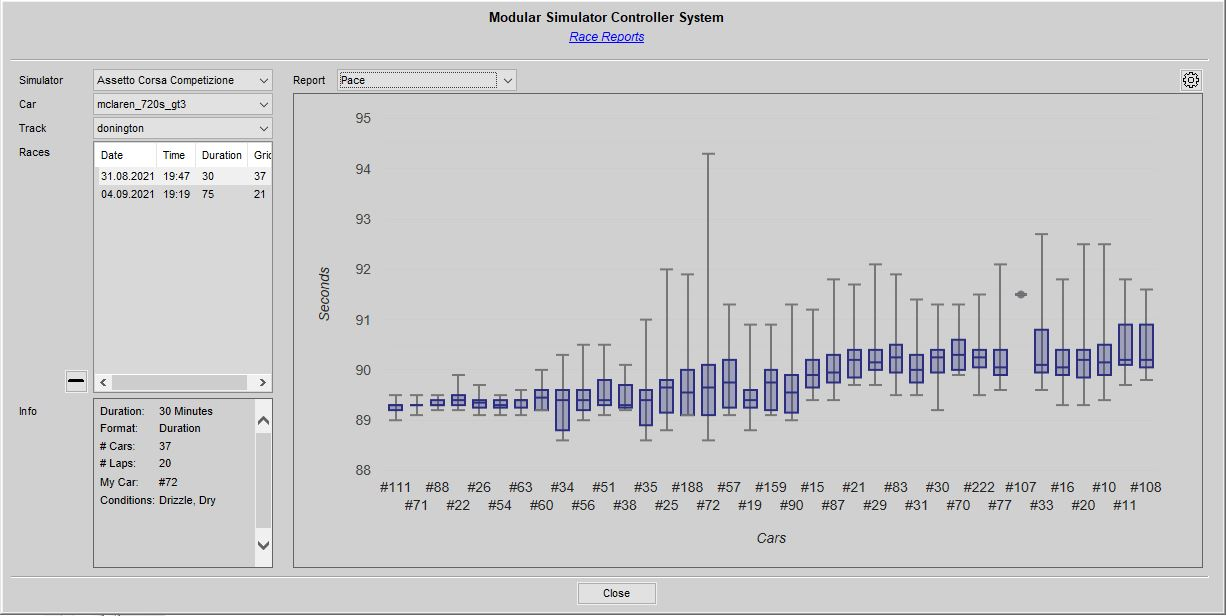
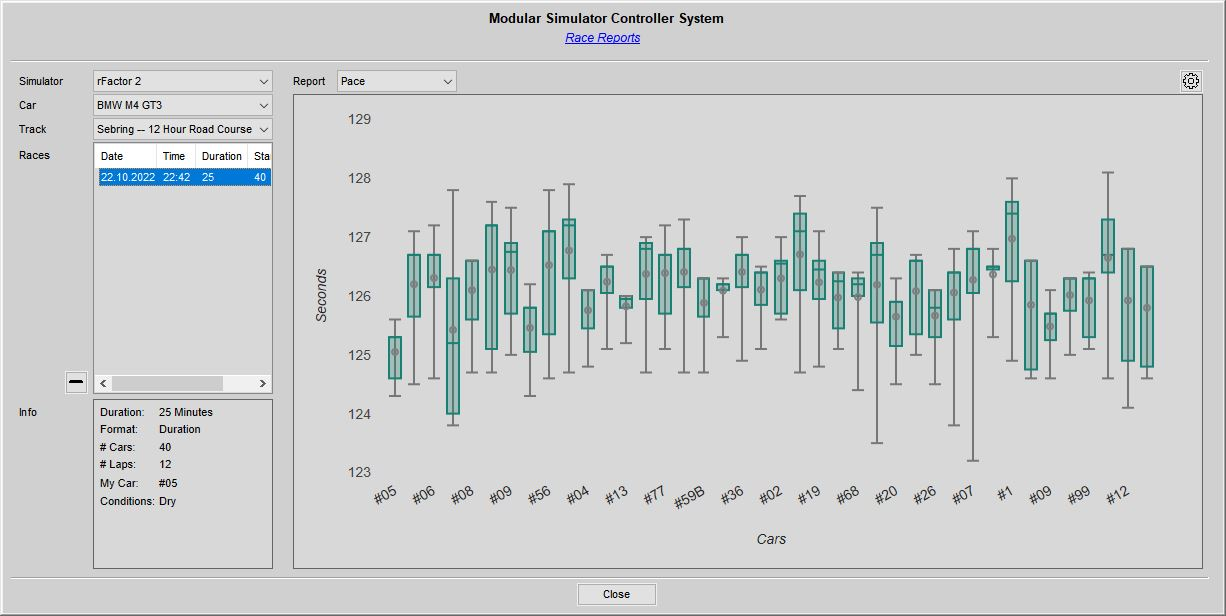
Support for mean values in Pace report

diff --git a/Docs/Virtual Race Strategist.md b/Docs/Virtual Race Strategist.md
@@ -203,7 +203,7 @@ After a given race report has been selected, the "Race Reports" tool offers you 
 
   6. Pace Report
   
-     If you want to analyze lap times and consistency of the different drivers, this report is for you. The small rectangle marks the range of typical lap times of the different drivers. The smaller and further down the small rectangle, the faster and the more consistent the corresponding driver is. If there are small blue lines above or below the rectangle, these marks lap times, which are outside of the standard deviation, for example a slow lap time after a crash.
+     If you want to analyze lap times and consistency of the different drivers, this report is for you. The small rectangle marks the range of typical lap times of the different drivers. The smaller and further down the small rectangle, the faster and the more consistent the corresponding driver is. If there are small lines above or below the rectangle, these marks lap times, which are outside of the standard deviation, for example a slow lap time after a crash. Inside the reactangle you may find a horizontal dividing line which represents the median of all lap times and a small grey dot, which shows the average or mean value of all lap times.
 	 
 	 ![](https://github.com/SeriousOldMan/Simulator-Controller/blob/main/Docs/Images/Race%20Reports%202.JPG)
 

diff --git a/Docs/Releases.md b/Docs/Releases.md
@@ -8,6 +8,7 @@
   7. Fixed a bug in "Race Reports", when a race number of a car is actually not a number like in '59B'.
   8. Simple tyre compounds now all use the suffix "(Black)" for a better distinguishment from "dry" weather conditions.
   9. Speech synthesizer and recognizer libraries are updated to the latest release of the Azure libraries.
+  10. Race reports have been update to show both the median and mean values of the lap times of the selected drivers / cars.
 
 ## 4.4.5.0-release 10/28/22
   1. Minor bugfixes, as always
